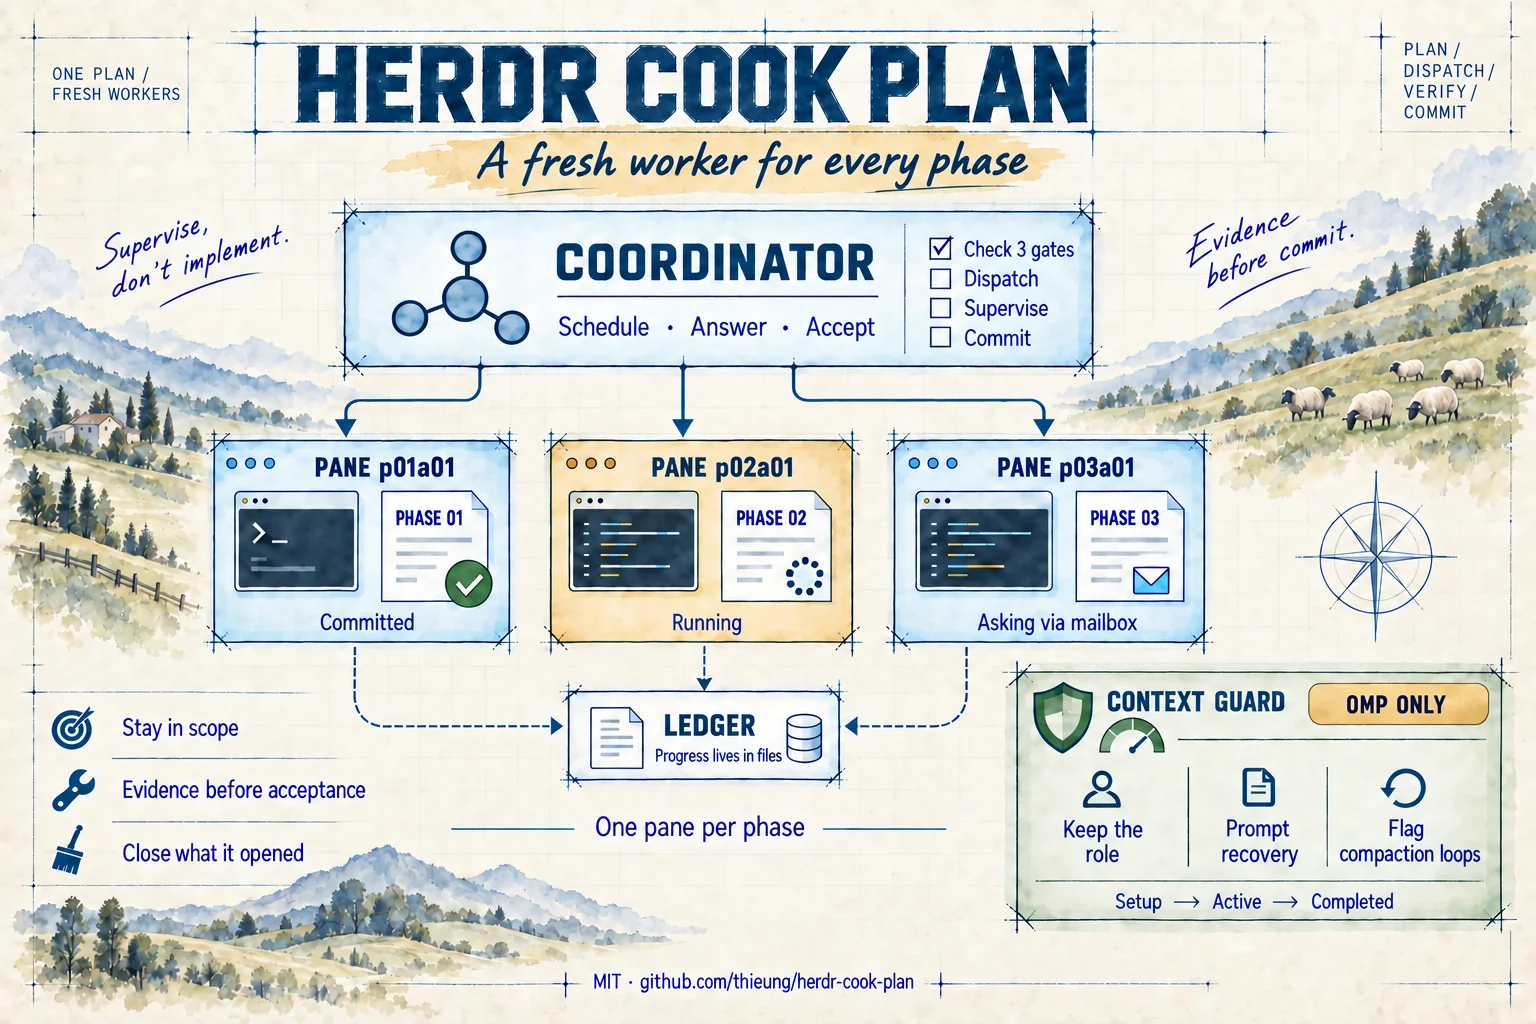
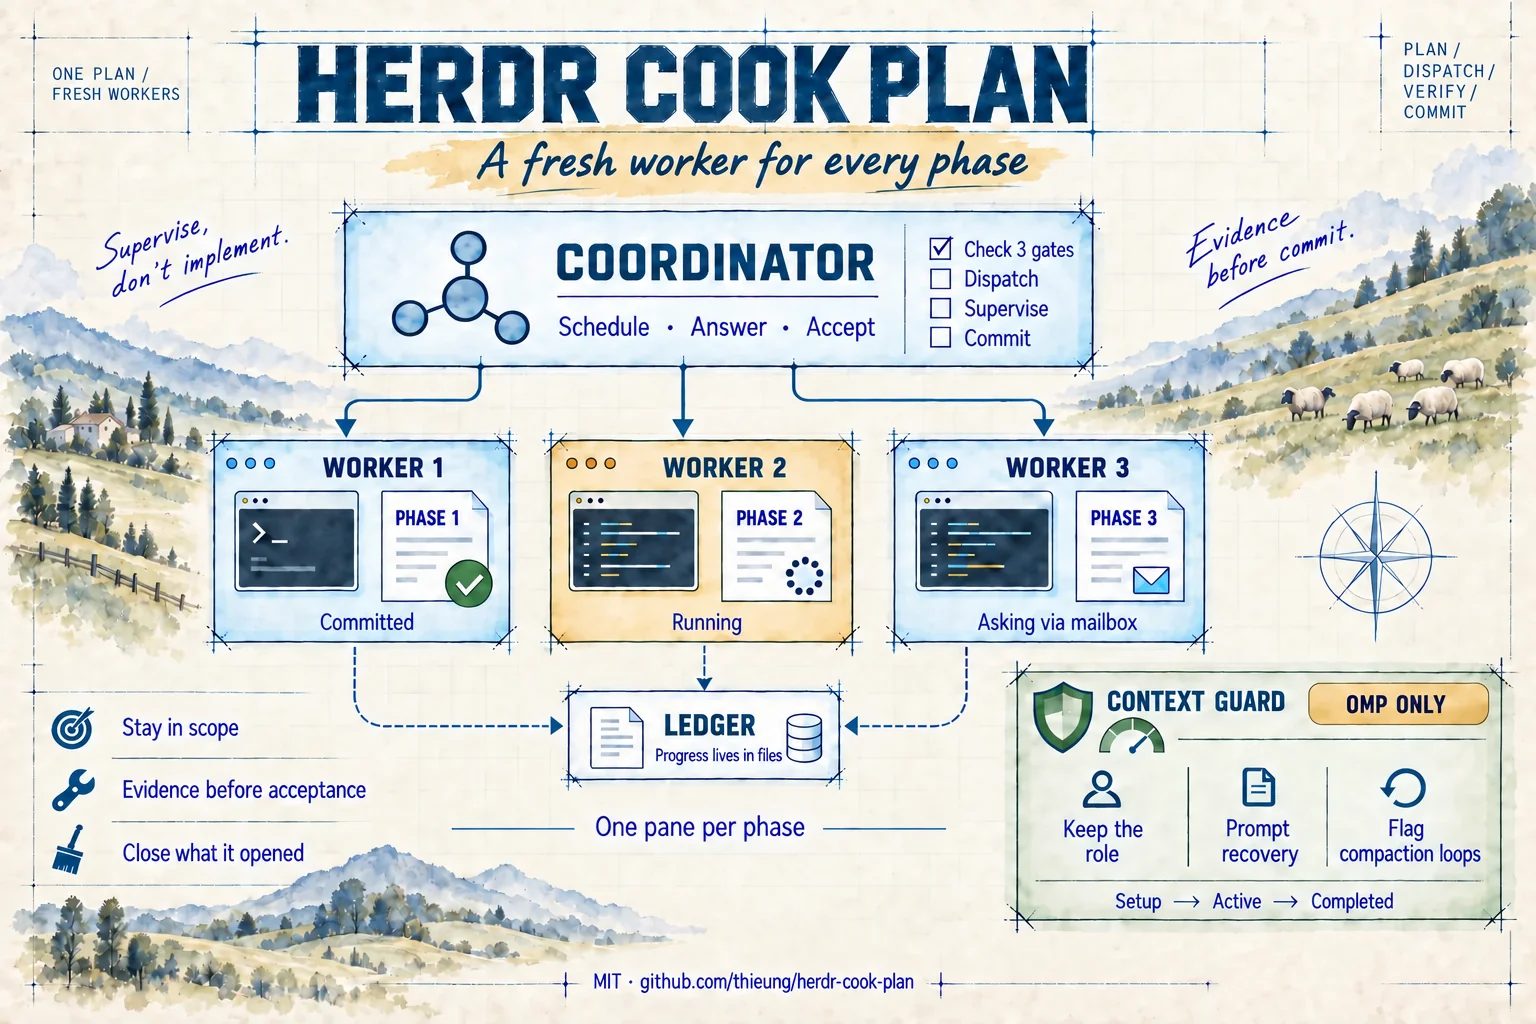
docs: friendly worker labels in covers and diagram; explain worker IDs

diff --git a/README.vi.md b/README.vi.md
@@ -65,9 +65,9 @@ flowchart TB
     coord -->|"dispatch theo từng đợt"| workers
     subgraph workers["Mỗi phase một pane worker mới"]
         direction LR
-        w1["p01a01<br/>đợt 1"]
-        w2["p02a01<br/>đợt 2"]
-        w3["p03a01<br/>đợt 2"]
+        w1["Phase 1, đợt 1<br/>worker p01a01"]
+        w2["Phase 2, đợt 2<br/>worker p02a01"]
+        w3["Phase 3, đợt 2<br/>worker p03a01"]
     end
     workers <-.->|"file câu hỏi và câu trả lời"| mail[("mail/")]
     workers -->|"report: complete"| check{"Diff đúng phạm vi?<br/>Check pass?"}
@@ -76,12 +76,14 @@ flowchart TB
     commit --> state[("checkpoint.md<br/>ledger.jsonl")]
 ```
 
+Tên worker đọc theo phase và lần thử (attempt): `p02a01` là phase 2, lần 1. Nếu phải thay worker đó,
+worker mới là `p02a02`, nên nó không bao giờ nhận nhầm câu trả lời dành cho worker trước.
+
 1. **Kiểm cổng.** Đang ở trong Herdr, Herdr 0.9.1 trở lên, integration đều `current`. Thiếu cổng nào là
    dừng run.
 2. **Bảng đợt thực hiện.** Phase, dependency, phạm vi ghi, runtime và cách kiểm tra; phase độc lập chạy
    song song, mặc định hai worker.
-3. **Dispatch.** Mỗi attempt một pane mới và một agent mới (`p02a01`, rồi `p02a02`), nhận prompt từ một
-   file brief đã kiểm tra.
+3. **Dispatch.** Mỗi lần thử một pane mới và một agent mới, nhận prompt từ một file brief đã kiểm tra.
 4. **Giám sát.** Mỗi vòng quét mailbox và chờ từng worker. Terminal idle không phải là thành công; hết
    giờ chờ không phải là đồng ý.
 5. **Nghiệm thu và commit.** Phase được nghiệm thu khi có report `status: complete`, agent đã settle, diff

diff --git a/README.md b/README.md
@@ -65,9 +65,9 @@ flowchart TB
     coord -->|"dispatch, wave by wave"| workers
     subgraph workers["One fresh worker pane per phase"]
         direction LR
-        w1["p01a01<br/>wave 1"]
-        w2["p02a01<br/>wave 2"]
-        w3["p03a01<br/>wave 2"]
+        w1["Phase 1, wave 1<br/>worker p01a01"]
+        w2["Phase 2, wave 2<br/>worker p02a01"]
+        w3["Phase 3, wave 2<br/>worker p03a01"]
     end
     workers <-.->|"question and answer files"| mail[("mail/")]
     workers -->|"report: complete"| check{"Scoped diff?<br/>Checks pass?"}
@@ -76,11 +76,13 @@ flowchart TB
     commit --> state[("checkpoint.md<br/>ledger.jsonl")]
 ```
 
+Worker names read as phase and attempt: `p02a01` is phase 2, attempt 1. If that worker has to be
+replaced, the new one is `p02a02`, so it never picks up an answer meant for its predecessor.
+
 1. **Gates.** Inside Herdr, Herdr 0.9.1+, integrations current. Any failure stops the run.
 2. **Wave table.** Phases, dependencies, write scope, runtime and checks; independent phases run in
    parallel, two workers by default.
-3. **Dispatch.** A new pane and a new agent per attempt (`p02a01`, then `p02a02`), prompted from a
-   checked brief file.
+3. **Dispatch.** A new pane and a new agent per attempt, prompted from a checked brief file.
 4. **Supervise.** Each round scans the mailbox and waits on every worker. An idle terminal is not
    success; a timeout is not approval.
 5. **Accept and commit.** A phase is accepted on a `status: complete` report, a settled agent, a scoped
